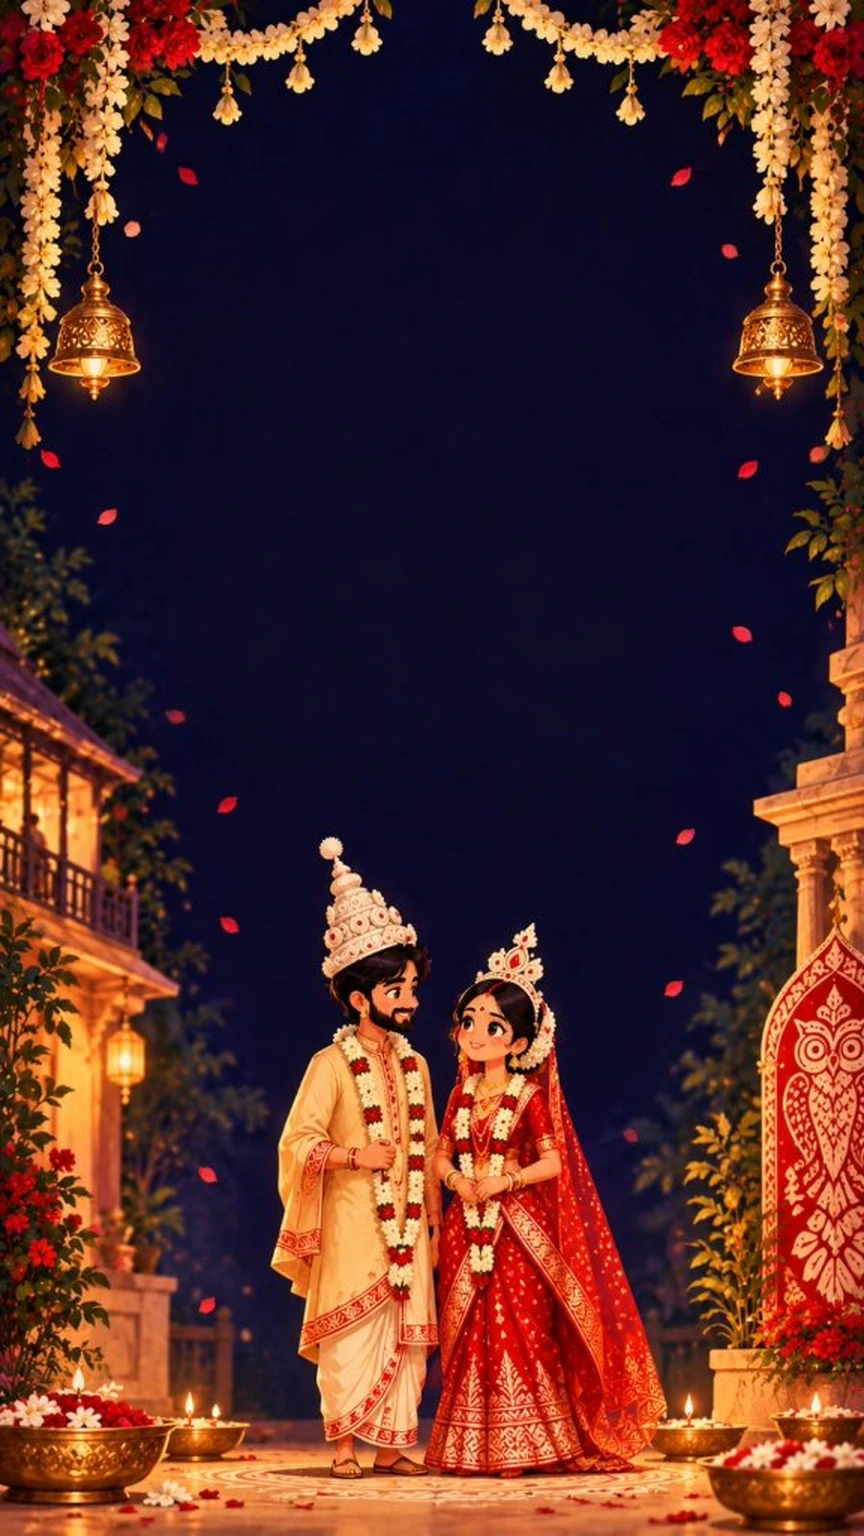
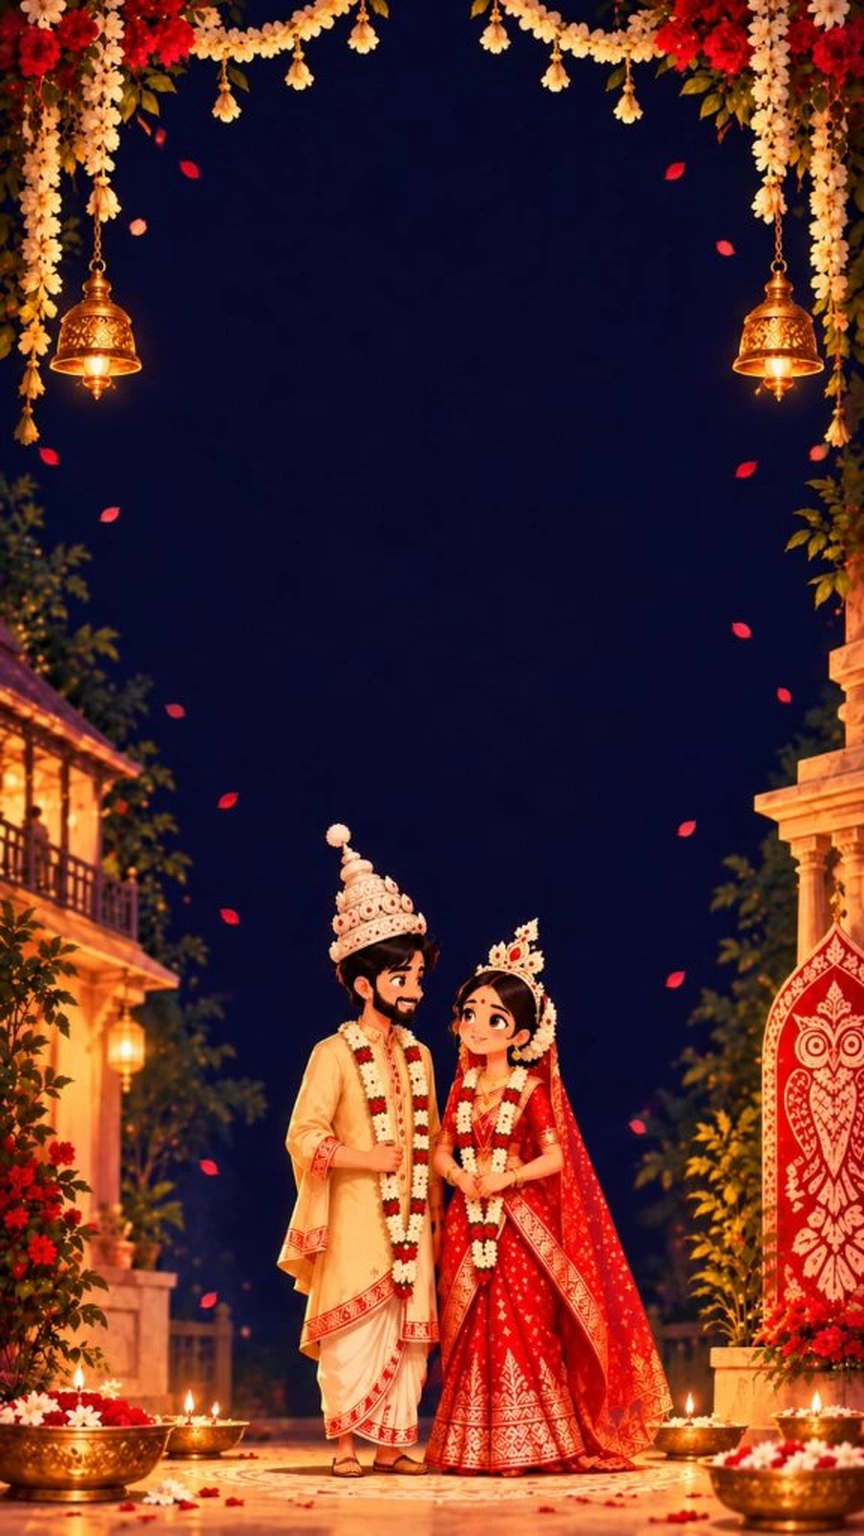
Upgrade hero couple illustration resolution and replace wedding card background

diff --git a/editable/wedding-data.js b/editable/wedding-data.js
@@ -110,7 +110,7 @@ window.WEDDING_DATA = {
       mapsUrl: "https://maps.app.goo.gl/JAtRZ7v5vmvfTYrz8",
       note: "The sacred vows, seven holy pheras, and the blessed beginning of eternal togetherness.",
       bgImage: "./editable/assets/wedding-bg.webp",
-      bgColor: "#0d0a27",
+      bgColor: "#0a0a2c",
       theme: "dark",
       program: [
         { name: "Baraat Arrival", time: "6:00 PM" },
